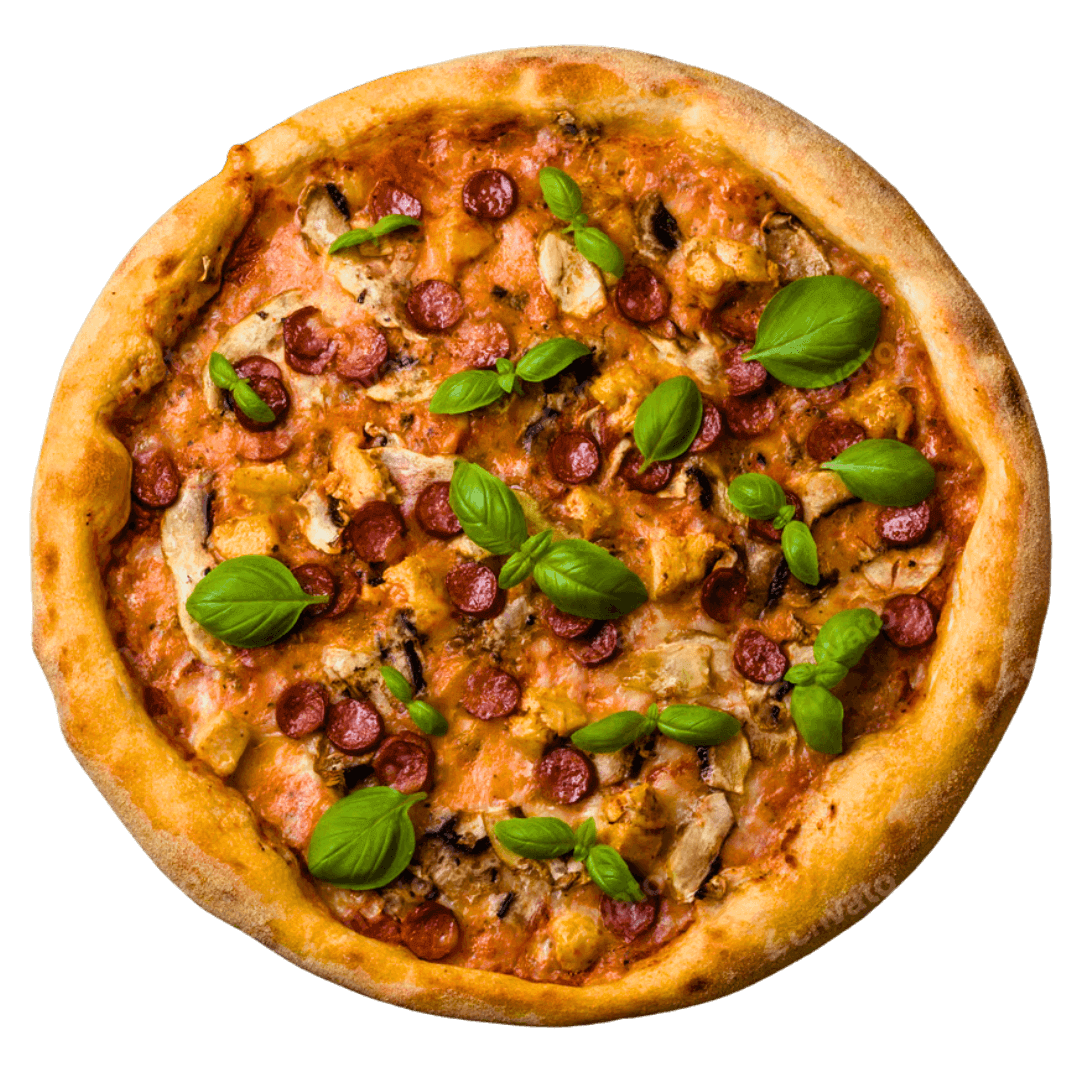
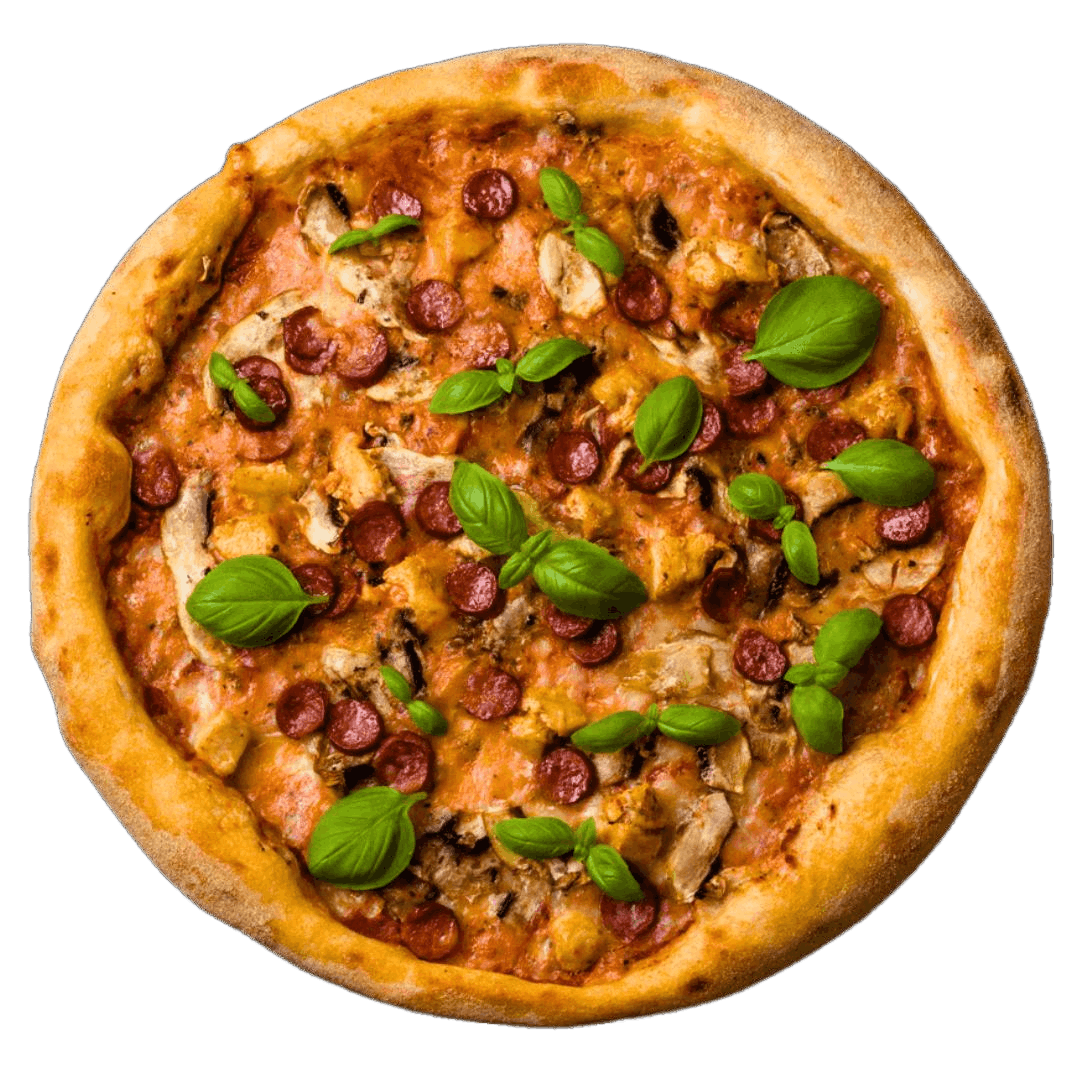
V1.601: Added MENU styling

diff --git a/src/assets/css/main.css b/src/assets/css/main.css
@@ -700,7 +700,7 @@ ul.icons {
   cursor: default;
   list-style: none;
   display: flex;
-  
+
   gap: 1rem;
 }
 ul.icons li * {
@@ -1743,112 +1743,25 @@ footer a:hover {
   border-radius: 1rem;
 }
 
-.checkout-popup.menu-builder {
-  max-width: 520px;
-  padding: 24px;
-}
-
-.menu-builder-header {
-  text-align: center;
-  margin-bottom: 20px;
-}
-
-.menu-builder-step {
-  font-size: 13px;
-  opacity: 0.7;
-  margin-top: 4px;
-}
-
-.menu-step {
-  margin-top: 10px;
-}
-
-.menu-subtitle {
-  font-size: 14px;
-  opacity: 0.8;
-  margin-bottom: 12px;
-  text-align: center;
-}
-
-.menu-options.grid {
-  display: grid;
-  grid-template-columns: 1fr 1fr;
-  gap: 10px;
-}
-
-.menu-option-card {
-  background: #fff;
-  border: 1px solid #e6e6e6;
-  padding: 12px;
-  border-radius: 12px;
-  cursor: pointer;
-  transition: 0.2s ease;
-  font-weight: 500;
-}
-
-.menu-option-card:hover {
-  transform: translateY(-2px);
-  border-color: #6237c8;
-}
-
-.menu-summary-card {
-  background: #f7f5ff;
-  border: 1px solid #e5dbff;
-  padding: 16px;
-  border-radius: 14px;
-  margin: 15px 0;
-}
-
-.menu-summary-item {
+.menu-options {
   display: flex;
-  gap: 8px;
-  margin-bottom: 8px;
-  font-size: 14px;
+  flex-wrap: wrap;
+  gap: 1rem;
+  justify-content: center;
+  margin-bottom: 2rem;
 }
-
-.menu-price {
-  margin-top: 10px;
-  font-weight: bold;
-  font-size: 18px;
-  color: #6237c8;
-  text-align: right;
+.menu-option {
+  display: flex;
+  flex-direction: column;
 }
-
-.btn-full {
-  width: 100%;
-  padding: 14px;
+.menu-options--item {
+  width: 8rem;
+  background-size: contain;
+  background-position: center;
+  background-repeat: no-repeat;
+  height: 8rem;
+  border: 2px solid var(--primary-white);
 }
-
-.menu-close {
-  margin-top: 12px;
-  width: 100%;
-  opacity: 0.7;
-}
-.menu-card {
-  background: #111;
-  border: 1px solid #2a2a2a;
-  border-radius: 16px;
-  overflow: hidden;
-  cursor: pointer;
-  transition: 0.2s ease;
-  text-align: left;
-  padding: 0;
-}
-
-.menu-card:hover {
-  transform: translateY(-4px);
-  border-color: #6237c8;
-}
-
-.menu-card-image {
-  height: 90px;
-  background: #000;
-  border-bottom: 1px solid #2a2a2a;
-}
-
-.menu-card-title {
-  padding: 12px;
-  font-weight: 600;
-  font-size: 14px;
-  color: white;
+.menu-options--item:hover {
+  border: 2px solid var(--primary-pink);
 }

diff --git a/src/components/Menu.jsx b/src/components/Menu.jsx
@@ -38,7 +38,11 @@ const Menu = ({ pizzas, stockSheet = [], isOpen, isKitchen }) => {
   const drinks = stockSheet.filter((item) => item.category === "Drank");
 
   const desserts = stockSheet.filter((item) => item.category === "Dessert");
-
+  const formatName = (name) =>
+    name
+      .toLowerCase()
+      .replace(/\s+/g, "") // spaties weg
+      .replace(/[^a-z0-9]/g, ""); // speciale tekens weg
   return (
     <div className="menu">
       <div className="menu-box">
@@ -156,22 +160,26 @@ const Menu = ({ pizzas, stockSheet = [], isOpen, isKitchen }) => {
           <div className="checkout-popup">
             {!menuBuilder.drink && (
               <>
-                <h2>Kies een drankje</h2>
+                <p>Kies een drankje</p>
 
                 <div className="menu-options">
                   {drinks.map((drink) => (
-                    <button
-                      key={drink.id}
-                      className="btn-purple"
-                      onClick={() =>
-                        setMenuBuilder((prev) => ({
-                          ...prev,
-                          drink,
-                        }))
-                      }
-                    >
-                      {drink.name}
-                    </button>
+                    <div className="menu-option">
+                      <button
+                        key={drink.id}
+                        className="menu-options--item"
+                        style={{
+                          backgroundImage: `url(/images/products/${formatName(drink.name)}.jpg)`,
+                        }}
+                        onClick={() =>
+                          setMenuBuilder((prev) => ({
+                            ...prev,
+                            drink,
+                          }))
+                        }
+                      ></button>
+                      <span className="menu-options--name"> {drink.name}</span>
+                    </div>
                   ))}
                 </div>
               </>
@@ -179,58 +187,46 @@ const Menu = ({ pizzas, stockSheet = [], isOpen, isKitchen }) => {
 
             {menuBuilder.drink && !menuBuilder.dessert && (
               <>
-                <h2>Kies een dessert</h2>
+                <p>Kies een dessert</p>
 
                 <div className="menu-options">
                   {desserts.map((dessert) => (
-                    <button
-                      key={dessert.id}
-                      className="btn-purple"
-                      onClick={() =>
-                        setMenuBuilder((prev) => ({
-                          ...prev,
-                          dessert,
-                        }))
-                      }
-                    >
-                      {dessert.name}
-                    </button>
+                    <div className="menu-option">
+                      <button
+                        key={dessert.id}
+                        className="menu-options--item"
+                        style={{
+                          backgroundImage: `url(/images/products/${formatName(dessert.name)}.jpg)`,
+                        }}
+                        onClick={() => {
+                          setMenuBuilder((prev) => ({
+                            ...prev,
+                            dessert,
+                          }));
+
+                          addMenu(
+                            menuBuilder.pizza,
+                            menuBuilder.drink,
+                            dessert,
+                            menuBuilder.pizza.menuPrice,
+                            { isKitchen },
+                          );
+
+                          setMenuBuilder({
+                            open: false,
+                            pizza: null,
+                            drink: null,
+                            dessert: null,
+                          });
+                        }}
+                      ></button>
+                      <span className="menu-options--name">
+                        {" "}
+                        {dessert.name}
+                      </span>
+                    </div>
                   ))}
                 </div>
-              </>
-            )}
-
-            {menuBuilder.drink && menuBuilder.dessert && (
-              <>
-                <h2>Bevestigen</h2>
-
-                <div className="menu-summary">
-                  <p>{menuBuilder.pizza.name}</p>
-                  <p>{menuBuilder.drink.name}</p>
-                  <p>{menuBuilder.dessert.name}</p>
-                </div>
-
-                <button
-                  className="btn-purple"
-                  onClick={() => {
-                    addMenu(
-                      menuBuilder.pizza,
-                      menuBuilder.drink,
-                      menuBuilder.dessert,
-                      menuBuilder.pizza.menuPrice,
-                      { isKitchen },
-                    );
-
-                    setMenuBuilder({
-                      open: false,
-                      pizza: null,
-                      drink: null,
-                      dessert: null,
-                    });
-                  }}
-                >
-                  Toevoegen
-                </button>
               </>
             )}
 